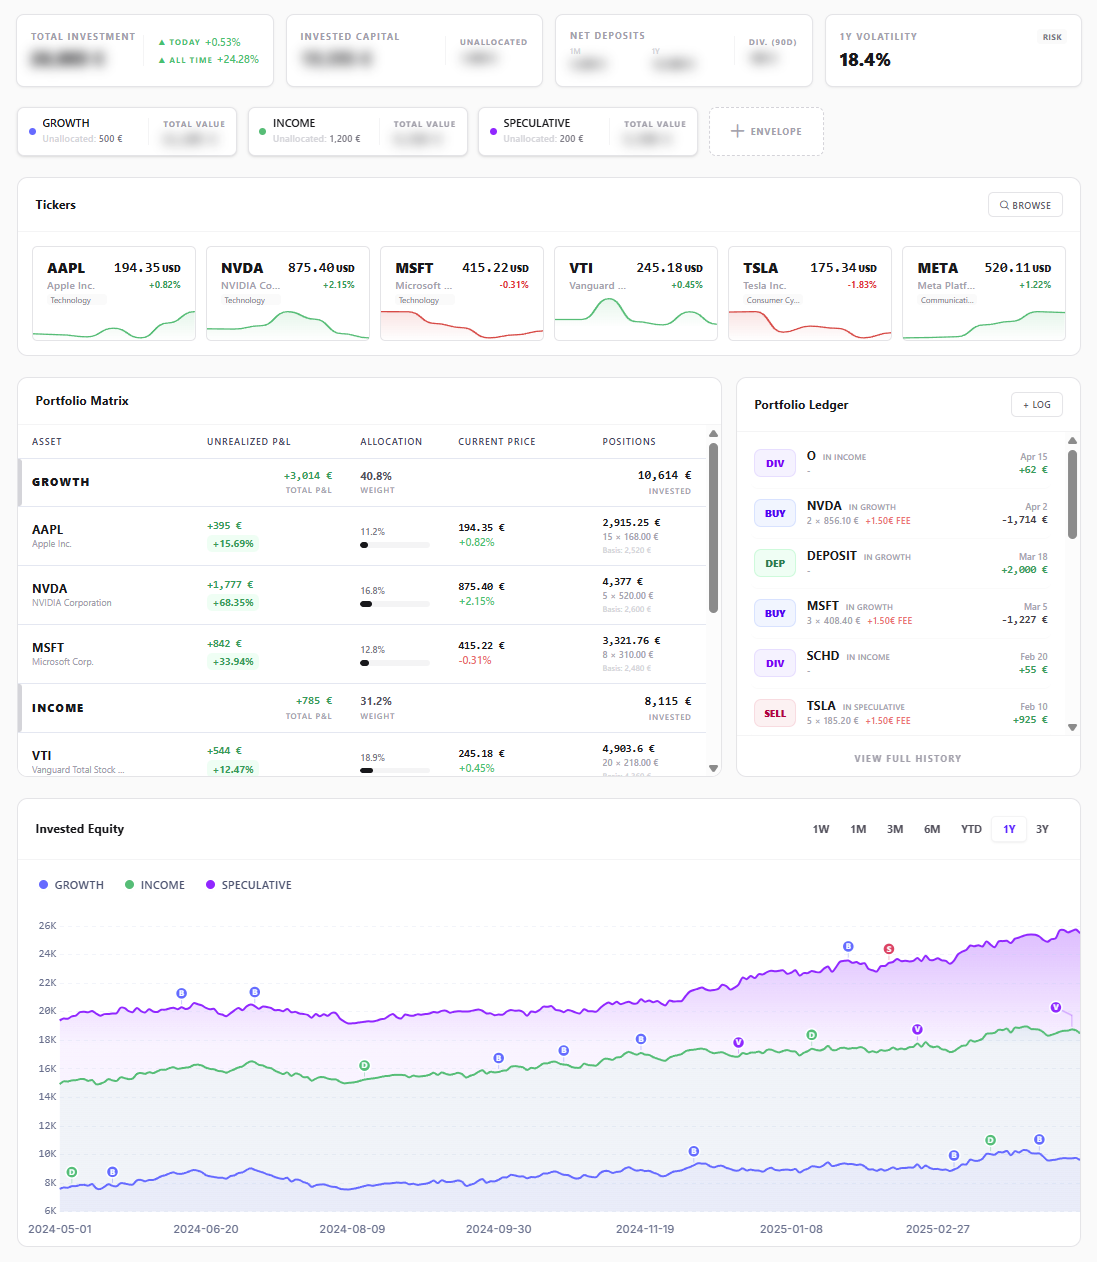
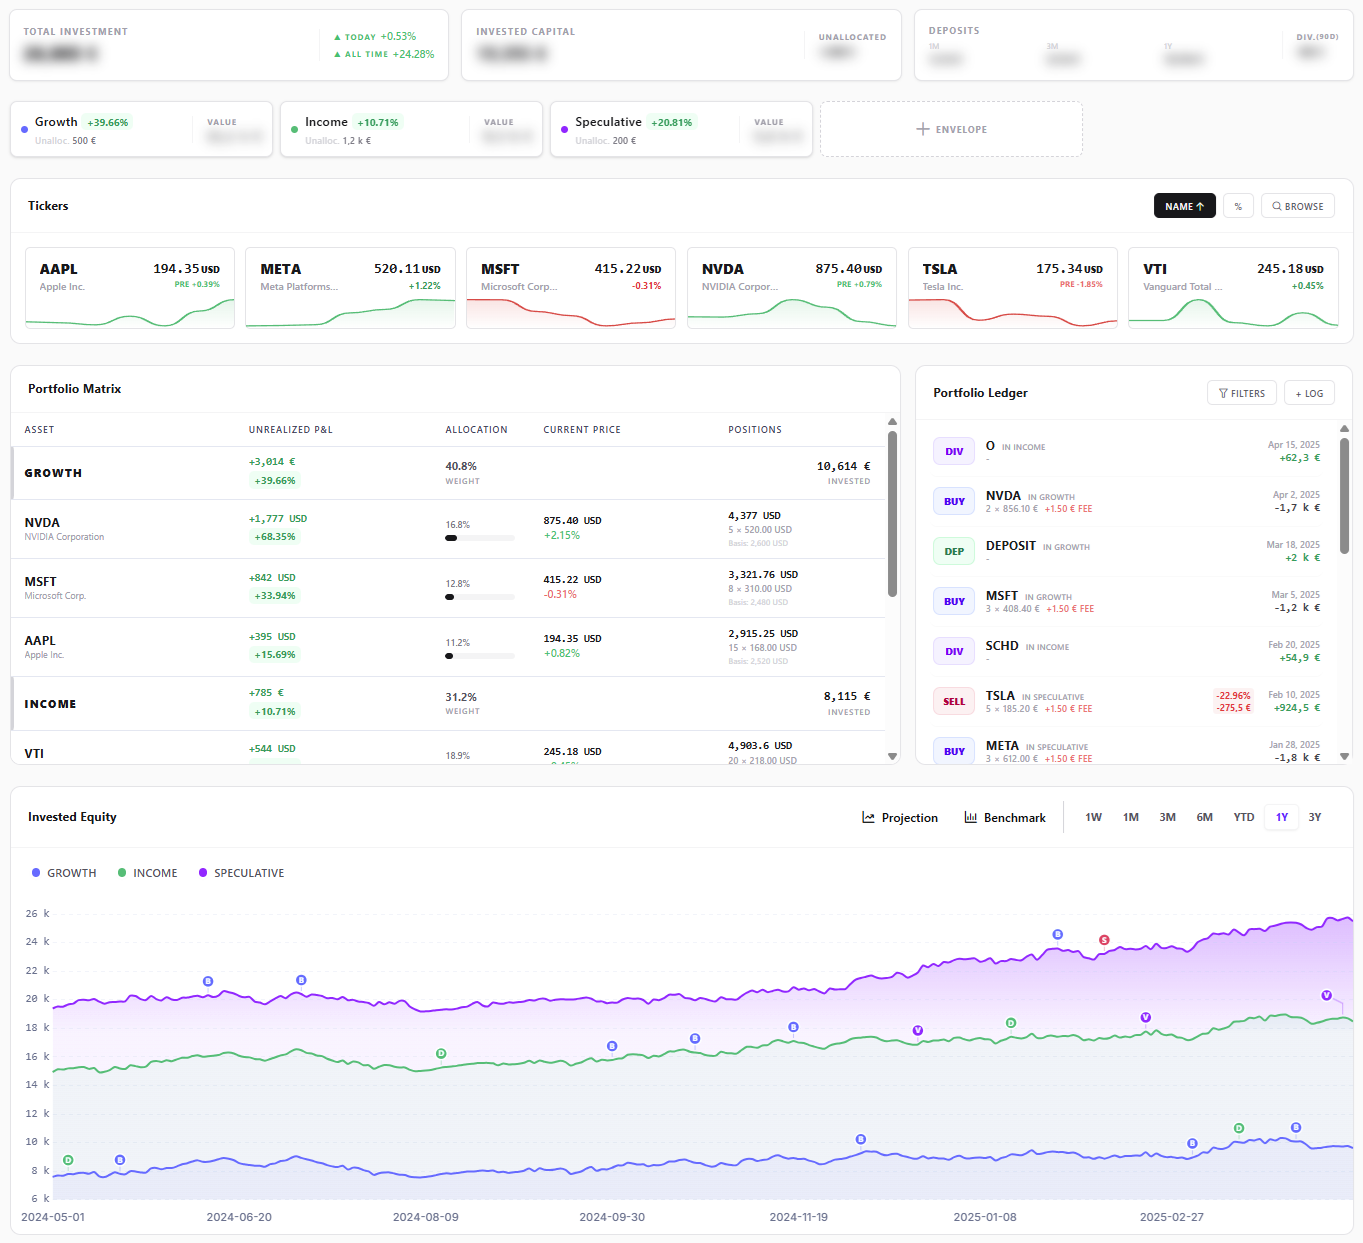
:memo: update README, update screenshots with updated UI

diff --git a/README.md b/README.md
@@ -89,7 +89,7 @@ A demo is available at [itskovacs-stonks.netlify.app](https://itskovacs-stonks.n
 |         |         |
 |:-------:|:-------:|
 | ![](./.github/sc_dashboard.png) | ![](./.github/sc_ticker1.png) |
-| ![](./.github/sc_dashboard_chart.png) | ![](./.github/sc_ticker2.png) |
+| ![](./.github/sc_dashboard_chart.png) | ![](./.github/sc_alerts.png) |
 
 </div>
 
